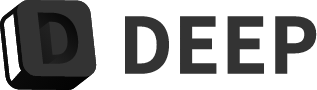
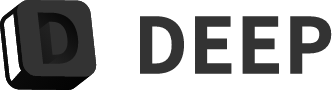
0.1.9

diff --git a/README.md b/README.md
@@ -112,6 +112,6 @@ MIT © Deepfactory, Inc. See [LICENSE](LICENSE) for details.
 <a title="DEEP" href="https://www.deepfactory.kr/">
   <picture>
     <source media="(prefers-color-scheme: dark)" srcset="./src/assets/deep-white.png">
-    <img alt="Toss" src="./src/assets/deep-dark.png" width="80">
+    <img alt="Toss" src="./src/assets/deep-dark.png" width="120">
   </picture>
 </a>
